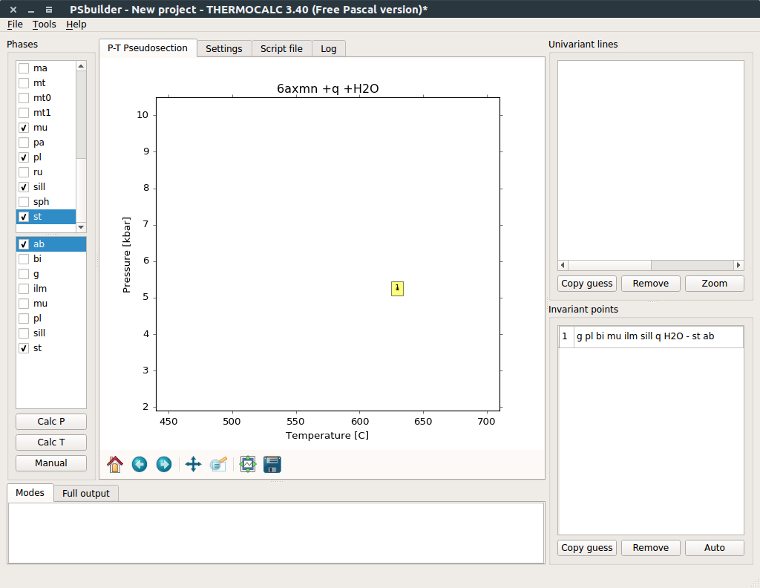
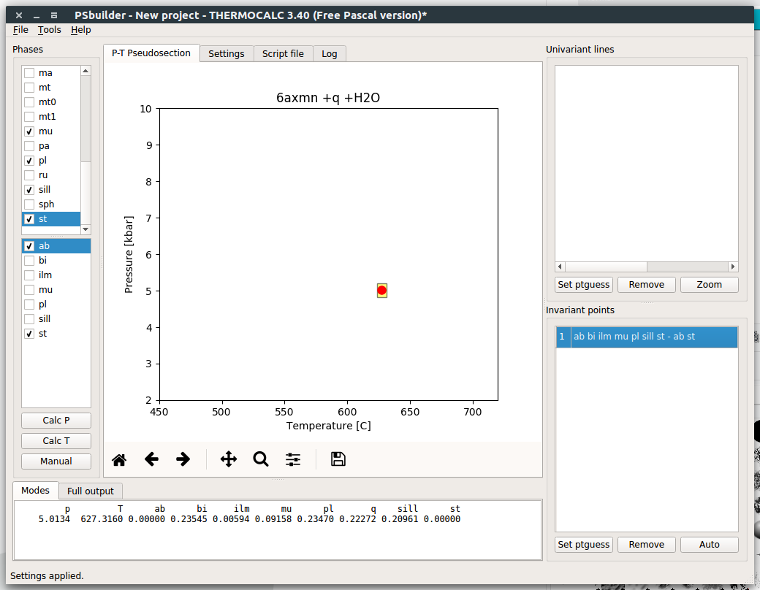
next minor release

Changed region(s): [[0.0, 0.0, 1.0, 1.0], [0.4842, 0.4592, 0.5447, 0.5204]]

diff --git a/pypsbuilder/psexplorer.py b/pypsbuilder/psexplorer.py
@@ -100,11 +100,11 @@ class PTPS:
 
     @property
     def gridfile(self):
-        return self.prj.workdir.joinpath(self.prj.name + '.psi')
+        return self.prj.workdir.joinpath(self.prj.name).with_suffix('.psi')
 
     @property
     def saved(self):
-        return self.gridfile.exists()
+        return self.gridfile.is_file()
 
     def unidata(self, fid):
         return self.prj.unidata(fid)
@@ -541,13 +541,11 @@ class PTPS:
         self.show()
         return self.identify(*plt.ginput()[0])
 
-    def isopleths(self, phase, expr, which=7, smooth=0, filled=True, step=None, N=None, gradient=False, dt=True, only=None, refine=1):
-        if step is None and N is None:
-            N = 10
+    def isopleths(self, phase, expr, which=7, smooth=0, filled=True, step=None, N=10, gradient=False, dt=True, only=None, refine=1):
         if self.gridded:
             print('Collecting...')
         else:
-            print('Collecting onlu from uni lines and inv points. Not yet gridded...')
+            print('Collecting only from uni lines and inv points. Not yet gridded...')
         if only is not None:
             recs = OrderedDict()
             d = self.collect_data(only, phase, expr, which=which)
@@ -688,10 +686,16 @@ def ps_iso():
                         help='expression evaluated to calculate values')
     parser.add_argument('-f', '--filled', action='store_true',
                         help='filled contours')
+    parser.add_argument('--step', type=float,
+                        default=None, help='contour step')
+    parser.add_argument('--ncont', type=int,
+                        default=10, help='number of contours')
+    parser.add_argument('--smooth', type=float,
+                        default=0, help='smoothness of the approximation')
     args = parser.parse_args()
     print('Running psiso...')
     ps = PTPS(args.project)
-    sys.exit(ps.isopleths(args.phase, args.expr, filled=args.filled))
+    sys.exit(ps.isopleths(args.phase, args.expr, filled=args.filled, smooth=args.smooth, step=args.step, N=args.ncont))
 
 
 def ps_drawpd():

diff --git a/pypsbuilder/psbuilder.py b/pypsbuilder/psbuilder.py
@@ -1671,11 +1671,16 @@ class InvModel(QtCore.QAbstractTableModel):
     def data(self, index, role=QtCore.Qt.DisplayRole):
         if not index.isValid():
             return None
-        elif role == QtCore.Qt.ForegroundRole:
+        # elif role == QtCore.Qt.ForegroundRole:
+        #     if self.invlist[index.row()][self.header.index('Data')]['manual']:
+        #         brush = QtGui.QBrush()
+        #         brush.setColor(QtGui.QColor('red'))
+        #         return brush
+        elif role == QtCore.Qt.FontRole:
             if self.invlist[index.row()][self.header.index('Data')]['manual']:
-                brush = QtGui.QBrush()
-                brush.setColor(QtGui.QColor('red'))
-                return brush
+                font = QtGui.QFont()
+                font.setBold(True)
+                return font
         elif role != QtCore.Qt.DisplayRole:
             return None
         else:
@@ -1731,11 +1736,16 @@ class UniModel(QtCore.QAbstractTableModel):
     def data(self, index, role=QtCore.Qt.DisplayRole):
         if not index.isValid():
             return None
-        elif role == QtCore.Qt.ForegroundRole:
+        # elif role == QtCore.Qt.ForegroundRole:
+        #     if self.unilist[index.row()][self.header.index('Data')]['manual']:
+        #         brush = QtGui.QBrush()
+        #         brush.setColor(QtGui.QColor('red'))
+        #         return brush
+        elif role == QtCore.Qt.FontRole:
             if self.unilist[index.row()][self.header.index('Data')]['manual']:
-                brush = QtGui.QBrush()
-                brush.setColor(QtGui.QColor('red'))
-                return brush
+                font = QtGui.QFont()
+                font.setBold(True)
+                return font
         elif role != QtCore.Qt.DisplayRole:
             return None
         else:

diff --git a/psiso-script.py b/psiso-script.py
@@ -13,10 +13,16 @@ def main():
                         help='expression evaluated to calculate values')
     parser.add_argument('-f', '--filled', action='store_true',
                         help='filled contours')
+    parser.add_argument('--step', type=float,
+                        default=None, help='contour step')
+    parser.add_argument('--ncont', type=int,
+                        default=10, help='number of contours')
+    parser.add_argument('--smooth', type=float,
+                        default=0, help='smoothness of the approximation')
     args = parser.parse_args()
     print('Running psiso...')
     ps = PTPS(args.project)
-    sys.exit(ps.isopleths(args.phase, args.expr, filled=args.filled))
+    sys.exit(ps.isopleths(args.phase, args.expr, filled=args.filled, smooth=args.smooth, step=args.step, N=args.ncont))
 
 if __name__ == "__main__":
     main()

diff --git a/docs/tutorial.rst b/docs/tutorial.rst
@@ -59,7 +59,7 @@ When you need to calculate some short univariant lines you can zoom into this pa
 and hit **Calc** button. Active region will be used as computational P-T range. Moreover, you can manually
 add univariant line to simply connect two invariant points by straight line. For **Manual** addition
 of both invariant point or univariant line phases and zero modal proportion phase have to be properly selected.
-Manually added lines or points are show in red in lists.
+Manually added lines or points are shown in bold in lists.
 
 Double-clicking any univariant line in the list will highlight that line on diagram marked by
 calculated points.
@@ -67,7 +67,8 @@ calculated points.
 .. highlights::
 
    Note that double-click name of univariant (or invariant) line will populate `Modes` and
-   `Full output` panes at the bottom of application, so you can always check what is going on along lines.
+   `Full output` panes at the bottom of application, so you can always check what is going on along lines. Double-clicking of tabs heading open outputs
+   in separate window.
 
 .. image:: images/psbuilder_finished.png
 
@@ -145,18 +146,23 @@ For gridding pseudosection with grid 120x100 run following command::
 
 Once gridded you can draw isopleths diagrams using `psiso` command::
 
-    usage: psiso [-h] [-f] project phase expr
+    usage: psiso [-h] [-f] [--step STEP] [--ncont NCONT]
+                 [--smooth SMOOTH]
+                 project phase expr
 
     Draw isopleth diagrams
 
     positional arguments:
-      project       psbuilder project file
-      phase         phase used for contouring
-      expr          expression evaluated to calculate values
+      project          psbuilder project file
+      phase            phase used for contouring
+      expr             expression evaluated to calculate values
 
     optional arguments:
-      -h, --help    show this help message and exit
-      -f, --filled  filled contours
+      -h, --help       show this help message and exit
+      -f, --filled     filled contours
+      --step STEP      contour step
+      --ncont NCONT    number of contours
+      --smooth SMOOTH  smoothness of the approximation
 
 Following example shows isopleths of garnet mode::
 

diff --git a/docs/installation.rst b/docs/installation.rst
@@ -8,11 +8,12 @@ For Anaconda distribution (for now only Linux64 and Win64 supported) you can ins
 
 For other platforms install dependencies using conda::
 
-    conda install numpy matplotlib pyqt
+    conda install numpy matplotlib scipy pyqt
+    conda install -c conda-forge shapely descartes tqdm
 
 or by any other mechanism (see `Installing Scientific Packages <https://packaging.python.org/science/>`_).
 
-Than install pypsbuilder directly from github using pip::
+and than install pypsbuilder directly from github using pip::
 
     pip install https://github.com/ondrolexa/pypsbuilder/archive/master.zip
 
@@ -20,7 +21,7 @@ For upgrade use::
 
     pip install --upgrade --upgrade-strategy only-if-needed \
       https://github.com/ondrolexa/pypsbuilder/archive/master.zip
-          
+
 
 To install most recent (and likely less stable) development version use::
 

diff --git a/HISTORY.rst b/HISTORY.rst
@@ -61,10 +61,12 @@ History
 * Keyboard shortcuts added Ctrl-T and Ctrl-P for CalcTatP and CalcPatT
 * Ctrl-H Zoom home
 
-2.1.0 (XX YYY 2017)
+2.1.0 (23 Mar 2017)
 -------------------
 * Major update and refactoring
-* Starting guesses directly written to scriptfile (note that commented tags are needed)
+* Starting guesses directly written to scriptfile
+  (note that commented tags are needed in scriptfile)
 * Updated parsing include rbi data
-* Initial version of psexplorer(four cli scrips provided)
-* Manual unilines and invpoints highlighted in lists
+* Initial version of psexplorer to draw final pseudosections and isopleths
+  (cli scrips provided)
+* Manual unilines and invpoints shown in bold in lists
